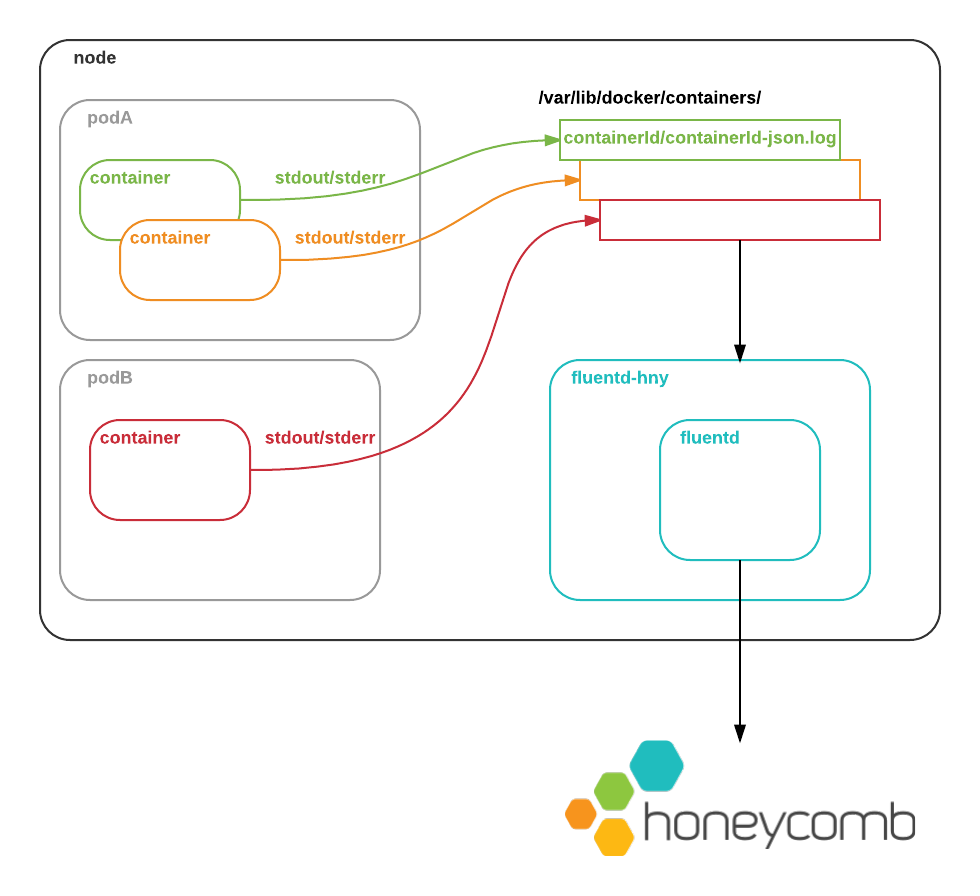
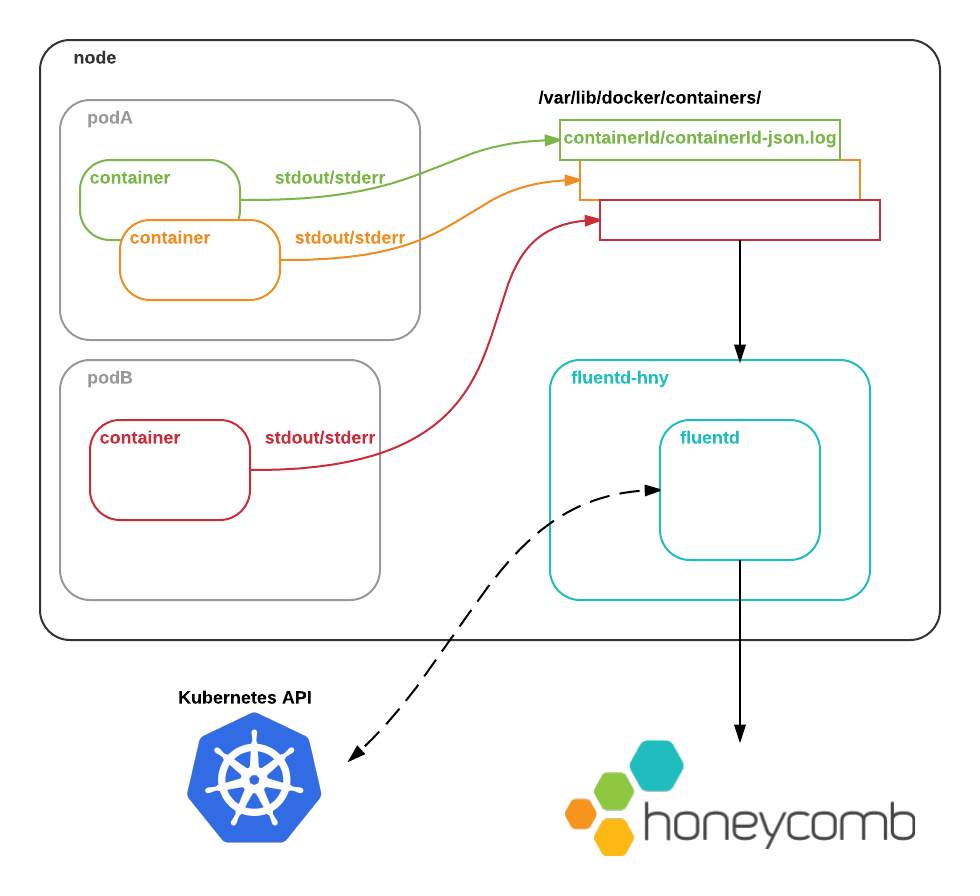
More verbiage.

Changed region(s): [[0.1837, 0.75, 0.3367, 0.9688], [0.6429, 0.5312, 0.6735, 0.5625]]

diff --git a/README.md b/README.md
@@ -1,11 +1,10 @@
 # Cluster-level Kubernetes Logging with Honeycomb
 
-Honeycomb's Kubernetes agent helps you aggregate logs across your cluster.
-
+[Honeycomb's](https://honeycomb.io) Kubernetes agent aggregates logs across a Kubernetes cluster. Stop managing log storage in all your clusters and start tracking down real problems.
 
 ## How it Works
 
-`fluentd-hny` runs as a [DaemonSet](https://kubernetes.io/docs/admin/daemons/) on each pod in the cluster.
+`fluentd-hny` runs as a [DaemonSet](https://kubernetes.io/docs/admin/daemons/) on each pod in the cluster. By default, containers' stdout/stderr are written by the docker Daemon to the node filesystem. `fluentd-hny` reads these logs, augments them with metadata from the Kubernetes API, and ships them to Honeycomb so that you can see what's going on.
 
 <img src="static/fluentd-hny.png" alt="architecture diagram" width="75%">
 
